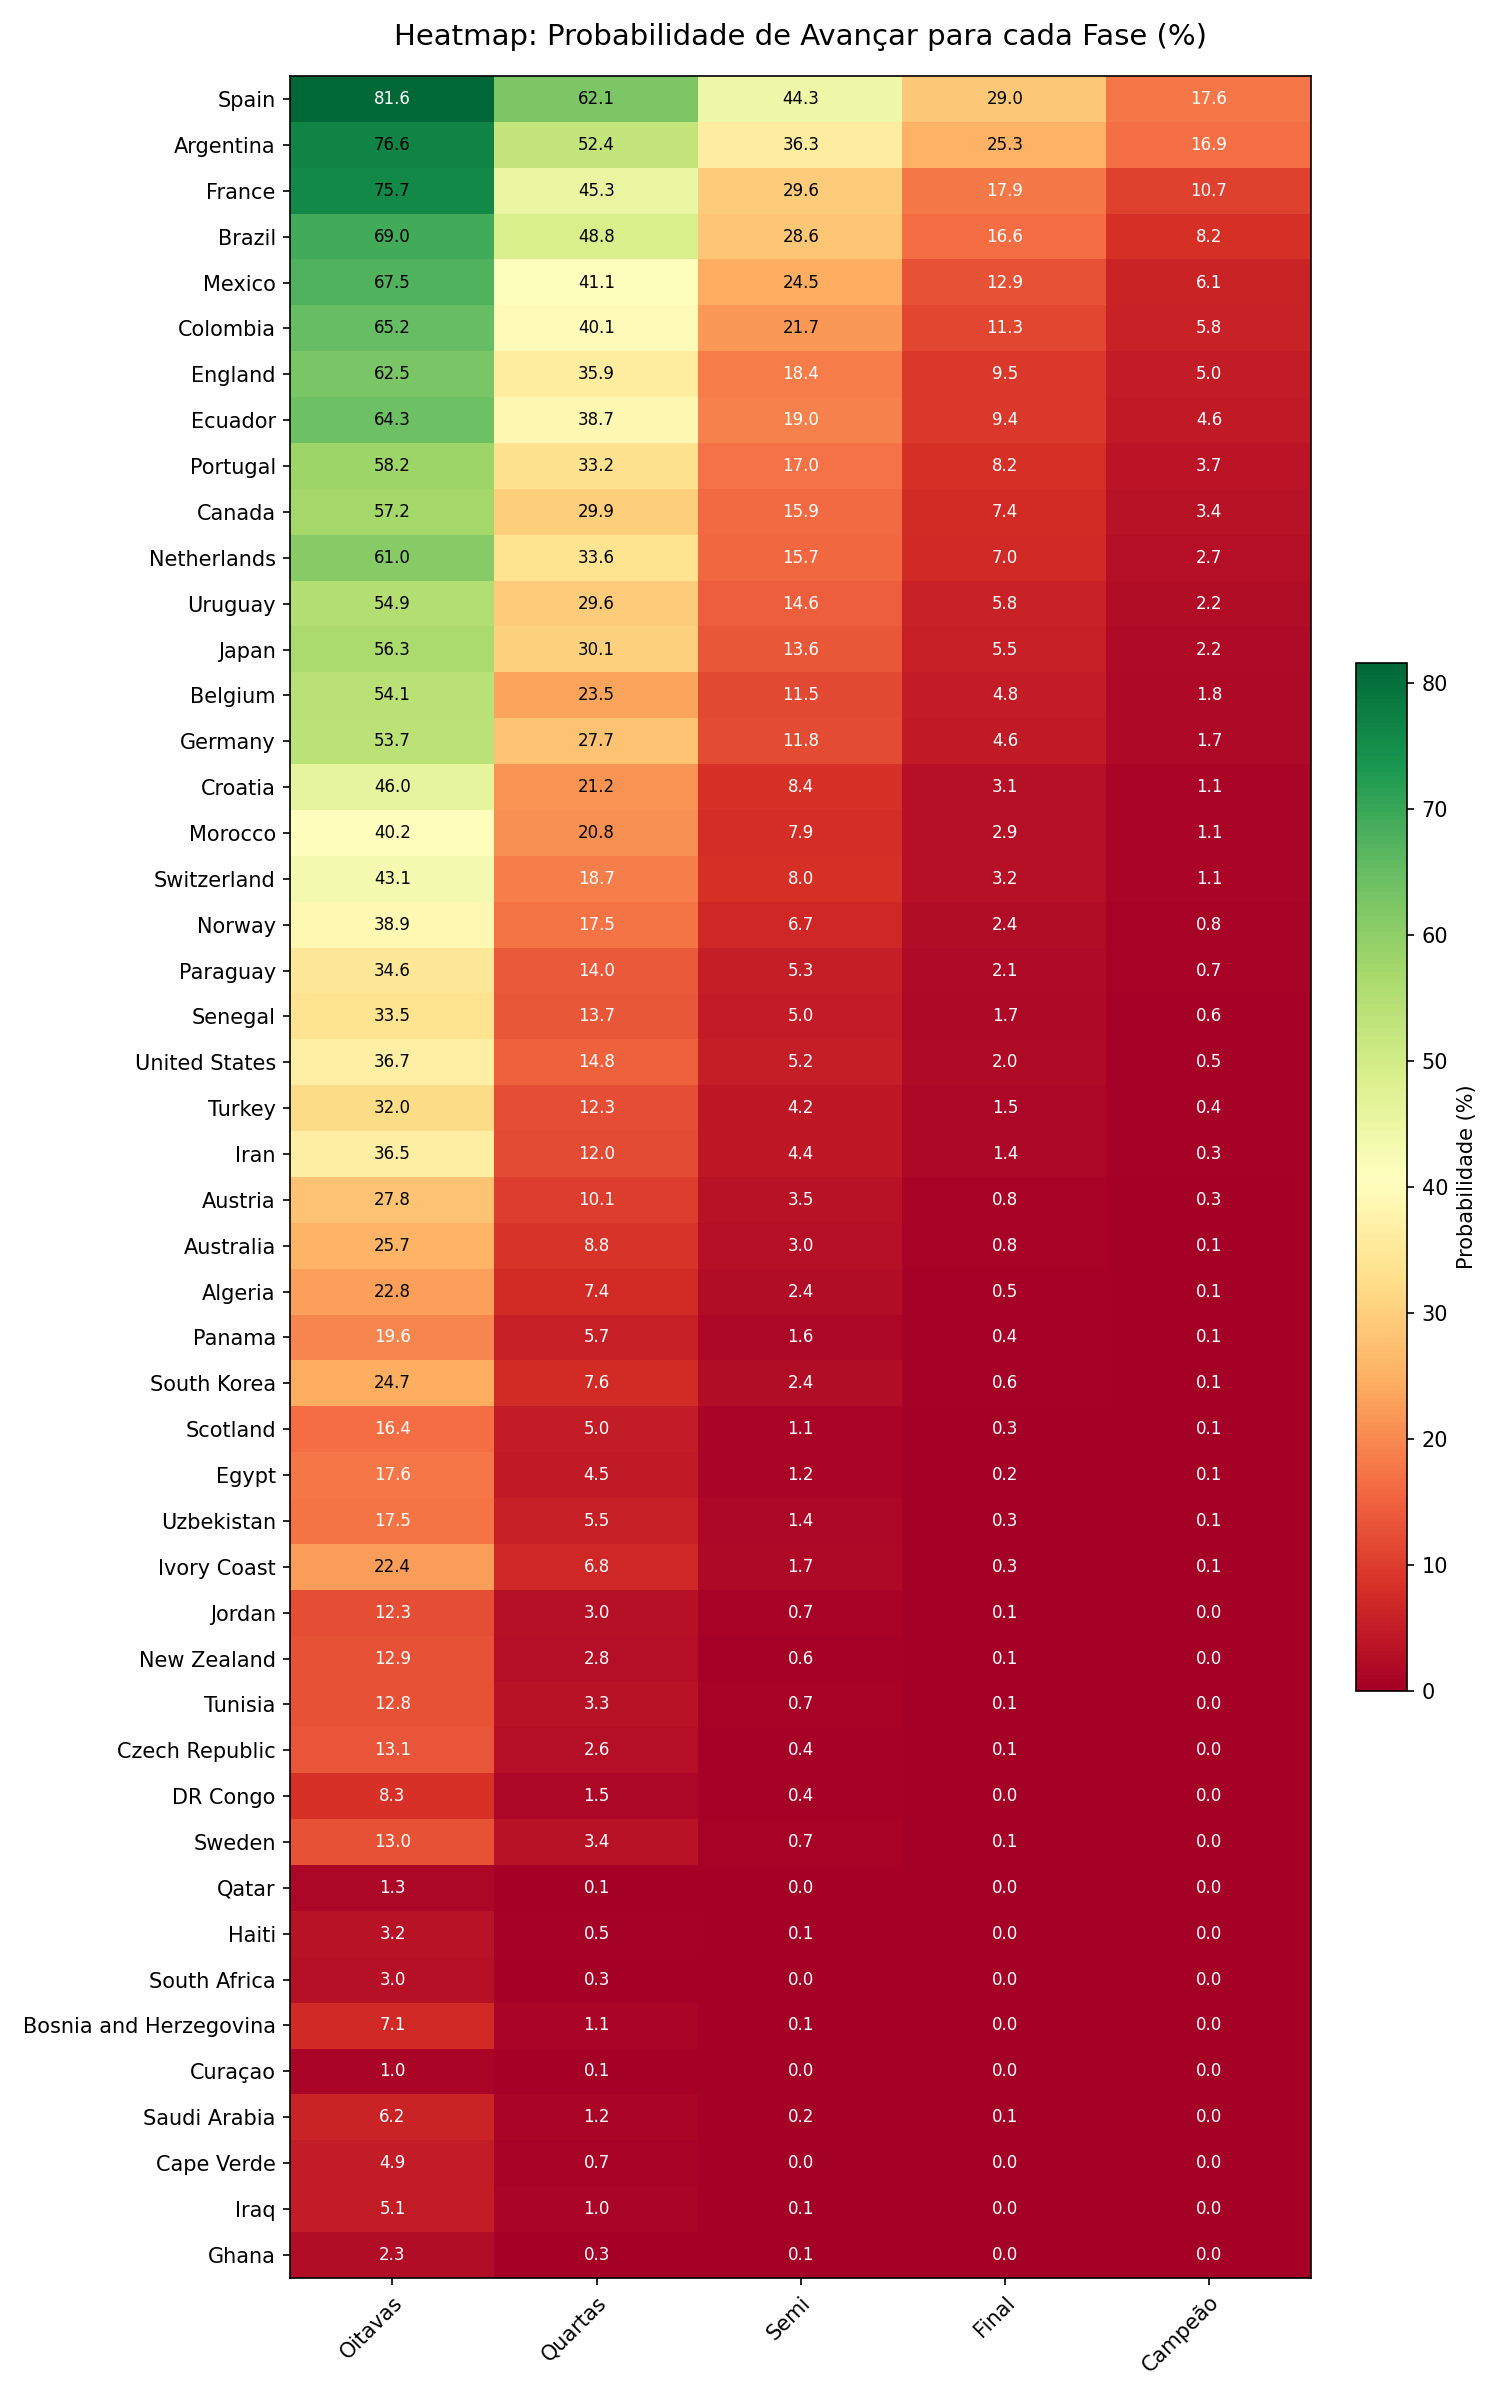
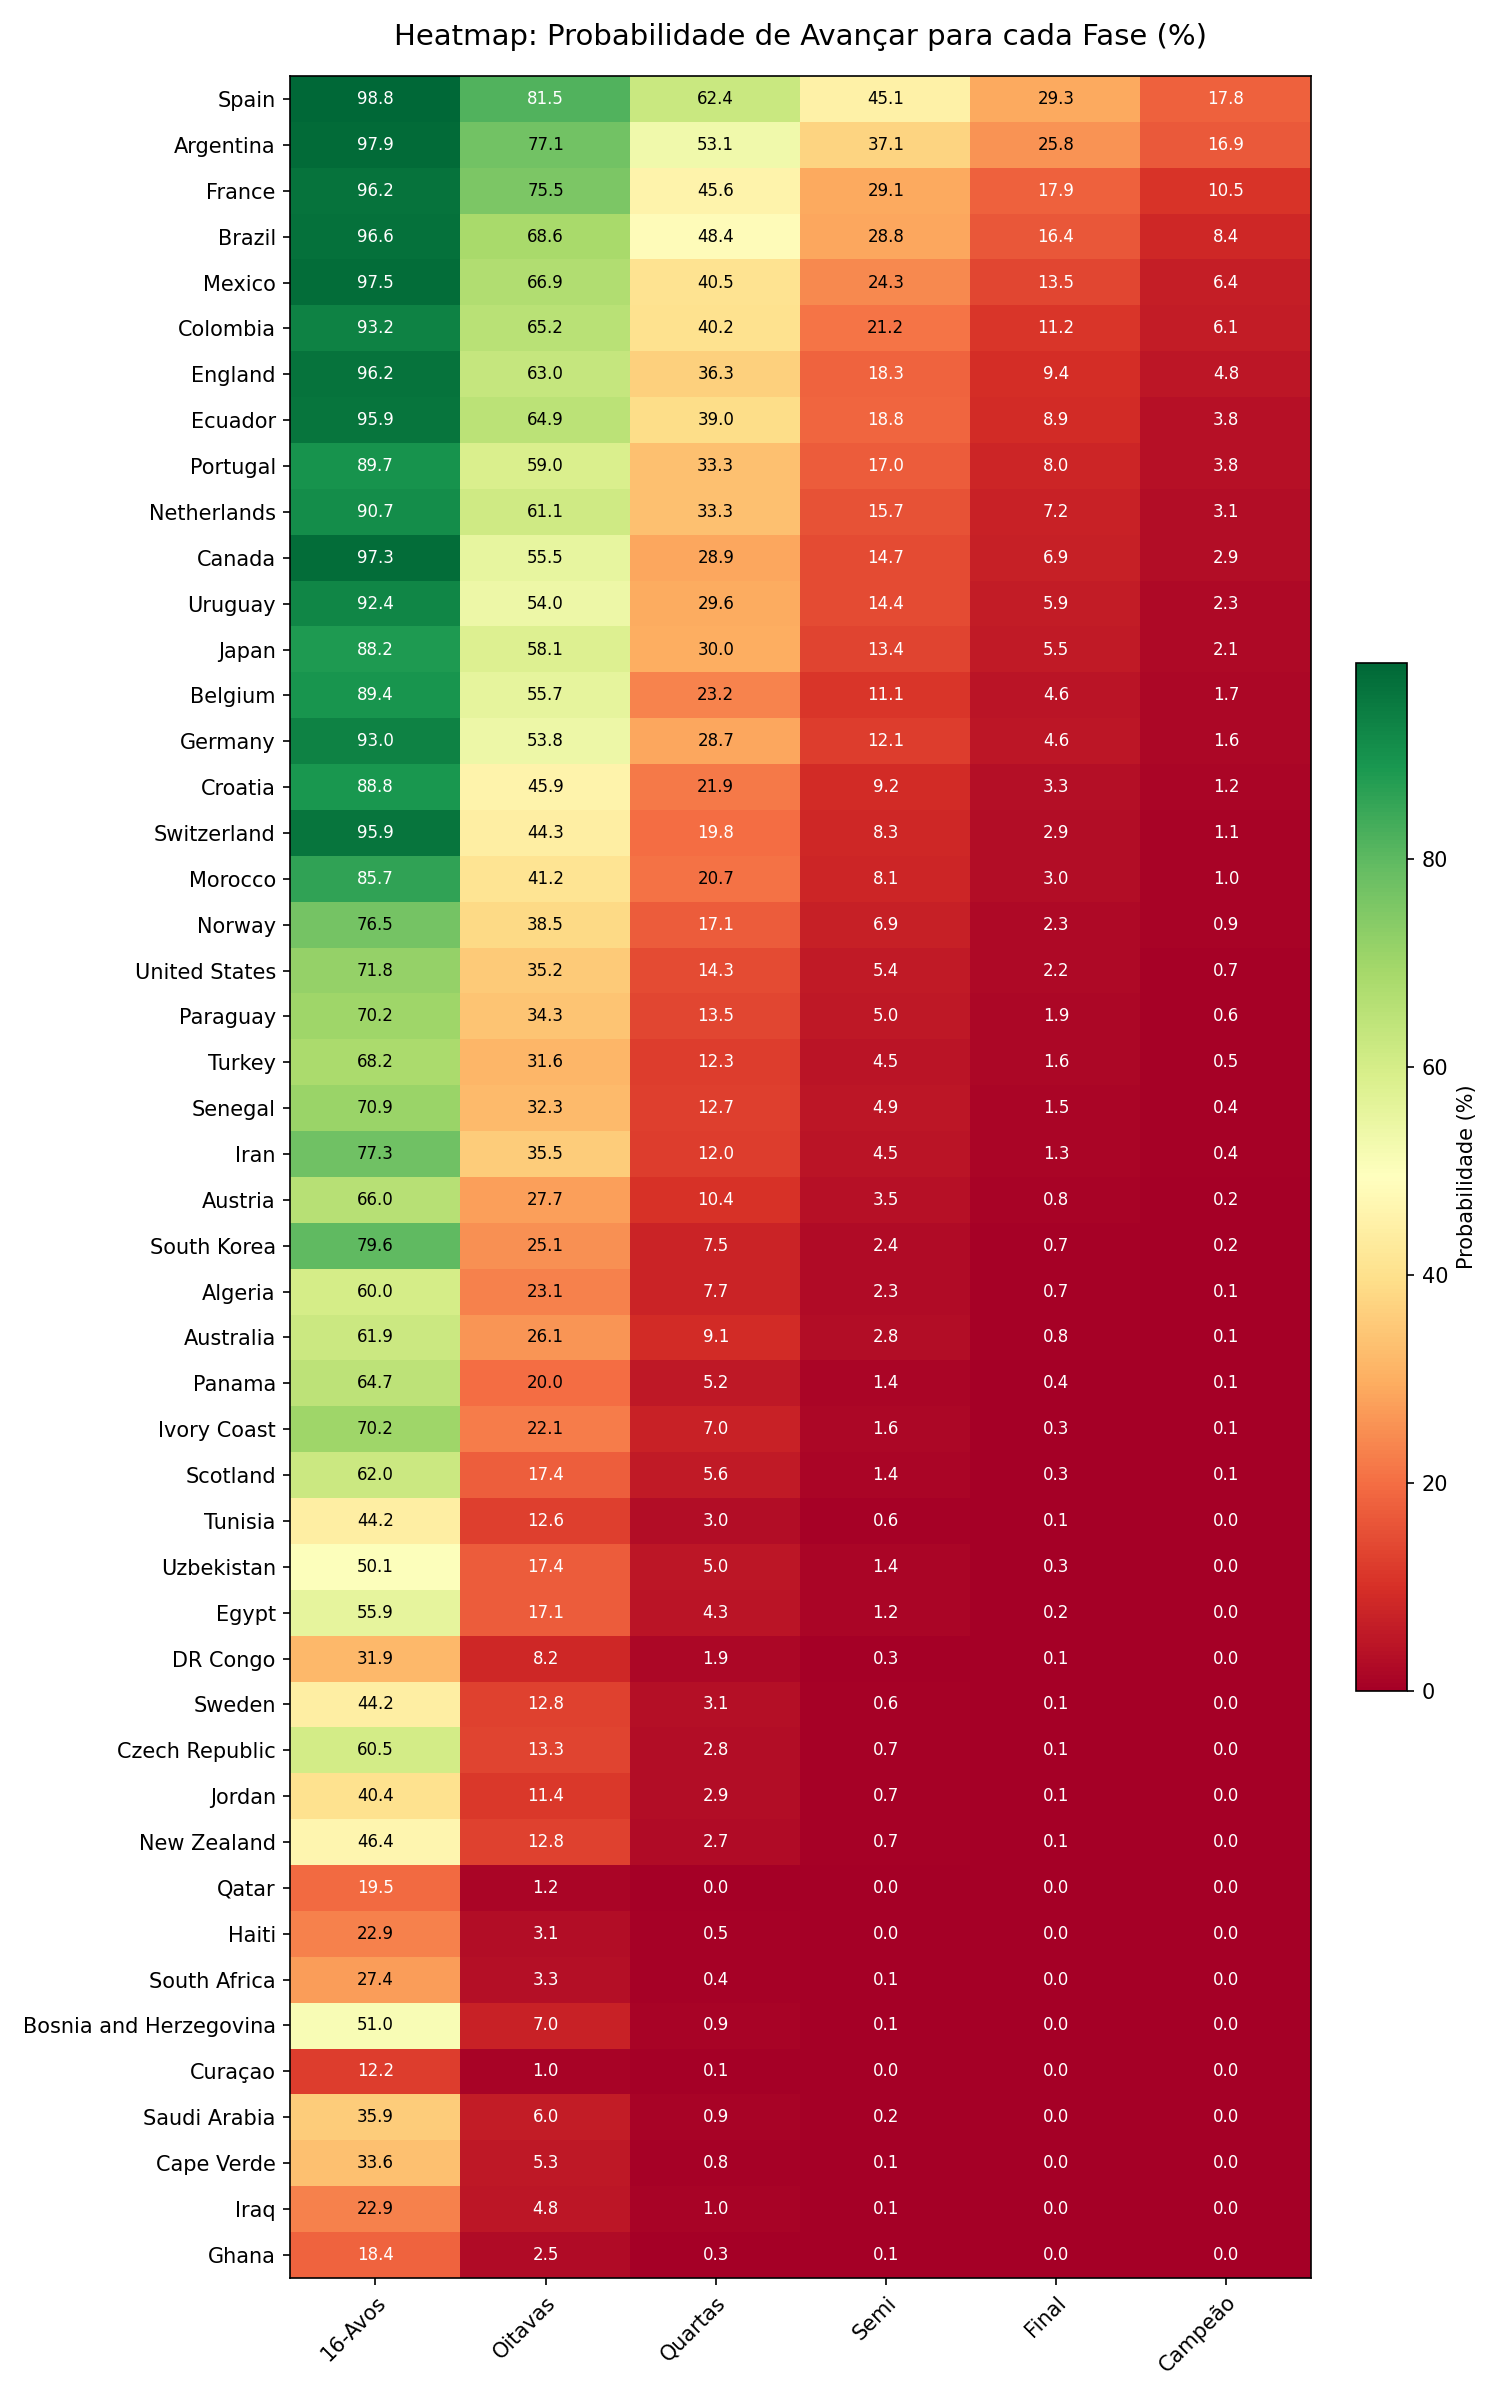
Add 16-Avos (Round of 32) stage to simulation tracking and Heatmap

diff --git a/modelo/simulate_copa.py b/modelo/simulate_copa.py
@@ -419,7 +419,7 @@ class CopaSim:
     def run(self, n=N_SIMULATIONS):
         N = self.n_teams
         C = {k: np.zeros(N, dtype=np.int32)
-             for k in ('groups', 'r16', 'qf', 'sf', 'final', 'title')}
+             for k in ('groups', 'r32', 'r16', 'qf', 'sf', 'final', 'title')}
 
         print(f"[3/4] Simulando {n:,} Copas (vetorizado)...")
         t0 = time.time()
@@ -463,6 +463,10 @@ class CopaSim:
             np.stack([second(6), second(10)],  axis=1),
             np.stack([second(7), second(11)],  axis=1),
         ], axis=1)
+
+        for k in range(16):
+            np.add.at(C['r32'], bracket_pairs[:, k, 0], 1)
+            np.add.at(C['r32'], bracket_pairs[:, k, 1], 1)
 
         r16 = self._play_round(bracket_pairs)
         for k in range(16): np.add.at(C['r16'], r16[:, k], 1)
@@ -568,7 +572,7 @@ def main():
             'P_semis':         round(C['sf'].get(team, 0)     / N_SIMULATIONS * 100, 2),
             'P_quarters':      round(C['qf'].get(team, 0)     / N_SIMULATIONS * 100, 2),
             'P_r16':           round(C['r16'].get(team, 0)    / N_SIMULATIONS * 100, 2),
-            'P_groups':        round(C['groups'].get(team, 0) / N_SIMULATIONS * 100, 2),
+            'P_r32':           round(C['r32'].get(team, 0)    / N_SIMULATIONS * 100, 2),
             'Host':            team in HOSTS,
         })
 
@@ -595,8 +599,8 @@ def main():
 
     # 2) Heatmap de Probabilidade de Avanço
     plt.figure(figsize=(12, 14))
-    phases = ['P_r16', 'P_quarters', 'P_semis', 'P_final', 'P_champion']
-    phase_labels = ['Oitavas', 'Quartas', 'Semi', 'Final', 'Campeão']
+    phases = ['P_r32', 'P_r16', 'P_quarters', 'P_semis', 'P_final', 'P_champion']
+    phase_labels = ['16-Avos', 'Oitavas', 'Quartas', 'Semi', 'Final', 'Campeão']
     
     heatmap_df = df.set_index('Team')[phases].copy()
     data = heatmap_df.values
